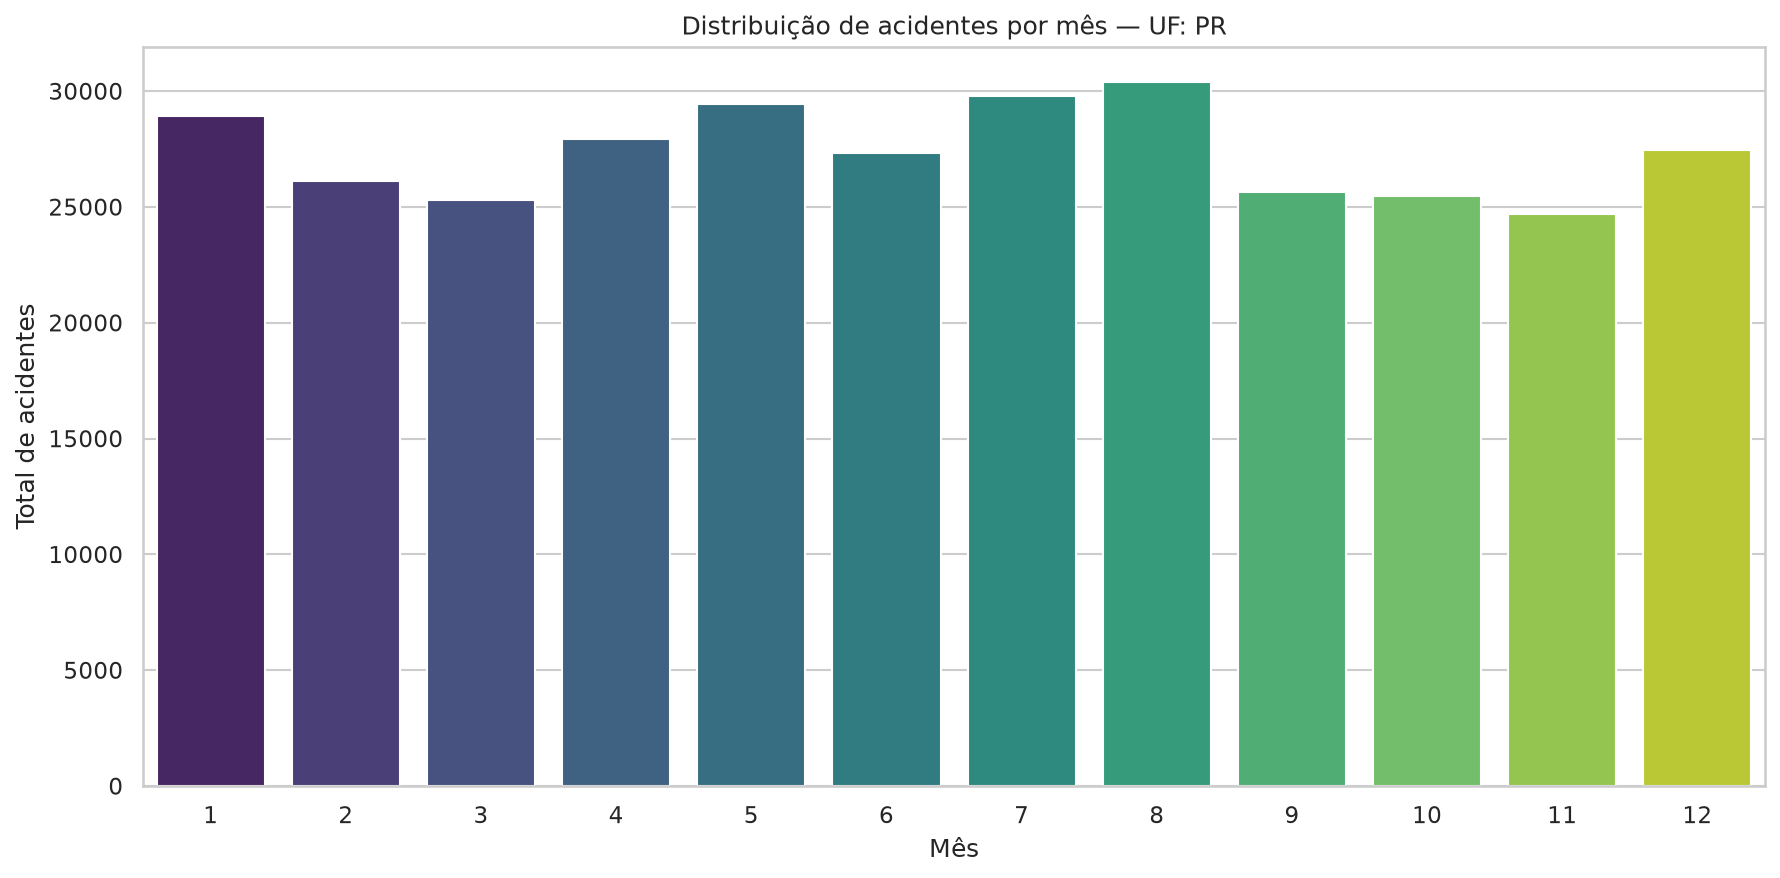
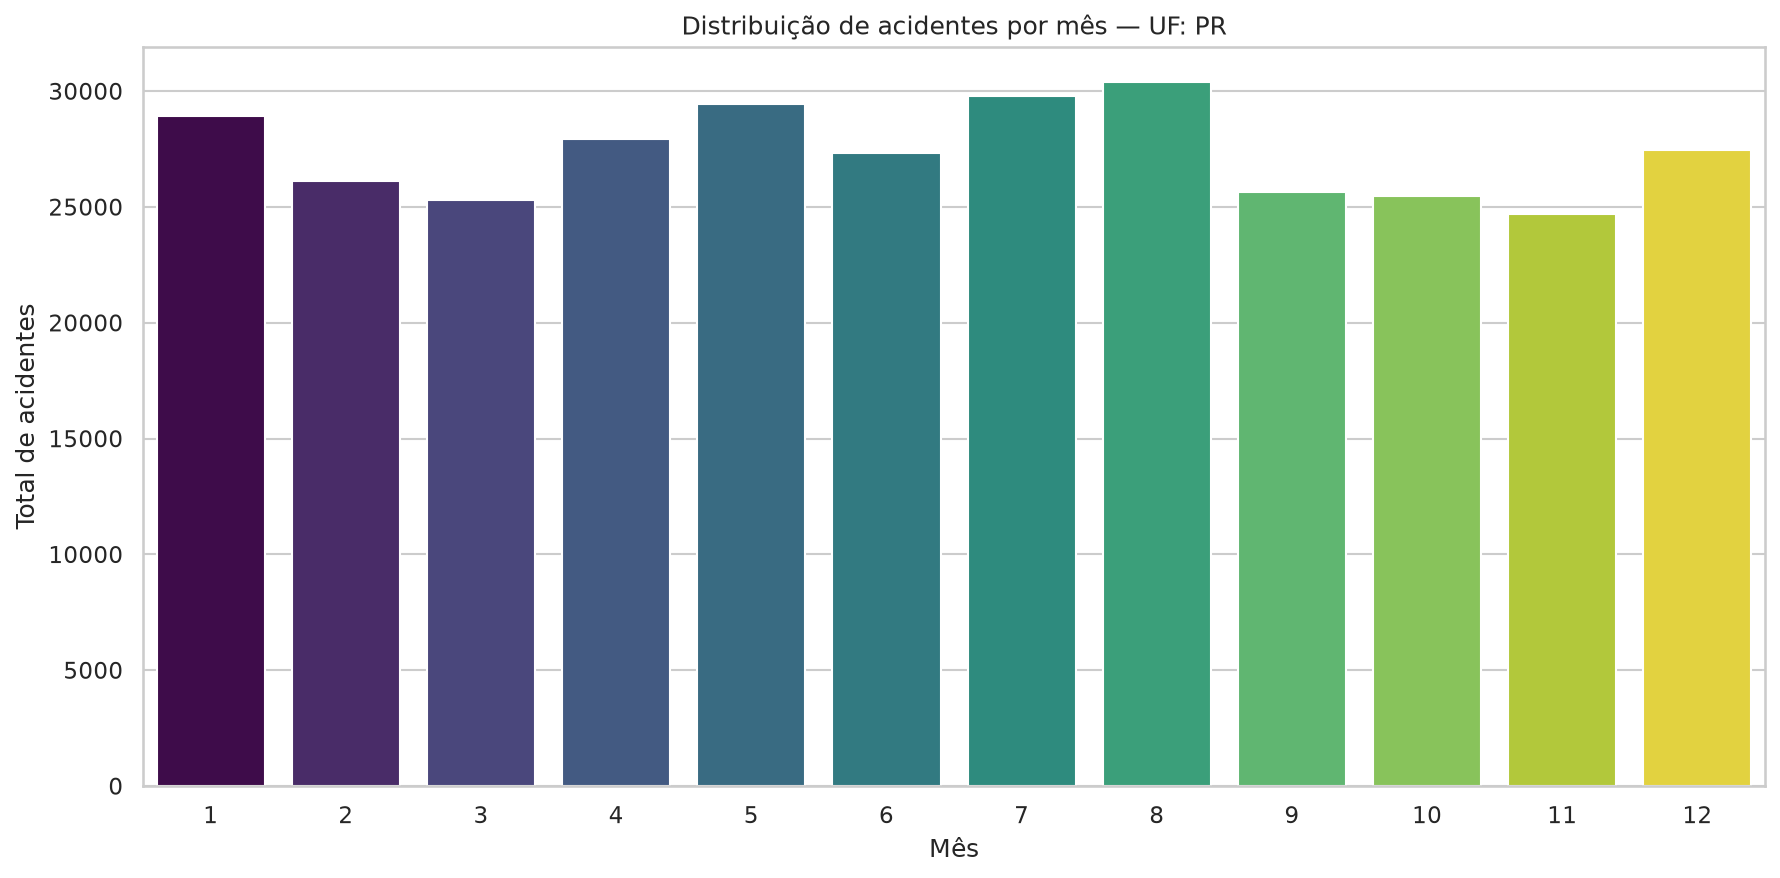
fix: compatibilidade com seaborn 0.13+ e ordem do salvar_modelo

Changed region(s): [[0.8343, 0.1538, 0.9888, 0.8918], [0.0618, 0.123, 0.1545, 0.8918]]

diff --git a/04_visualizacao.py b/04_visualizacao.py
@@ -69,7 +69,7 @@ def grafico_por_mes(df):
     resumo = df.groupby("mes").agg(total=("gravidade", "count")).reset_index()
 
     plt.figure(figsize=(12, 6))
-    sns.barplot(data=resumo, x="mes", y="total", palette="viridis")
+    sns.barplot(data=resumo, x="mes", y="total", palette="viridis", hue="mes", legend=False)
     plt.title(f"Distribuição de acidentes por mês — UF: {UF_FOCO}")
     plt.xlabel("Mês")
     plt.ylabel("Total de acidentes")
@@ -85,7 +85,7 @@ def grafico_por_dia_semana(df):
     resumo = resumo.sort_values("dia_semana")
 
     plt.figure(figsize=(12, 6))
-    sns.barplot(data=resumo, x="dia_semana", y="total", palette="rocket")
+    sns.barplot(data=resumo, x="dia_semana", y="total", palette="rocket", hue="dia_semana", legend=False)
     plt.title(f"Acidentes por dia da semana — UF: {UF_FOCO}")
     plt.xlabel("Dia da semana")
     plt.ylabel("Total de acidentes")
@@ -125,7 +125,8 @@ def grafico_condicao_meteorologica(df):
     ).reset_index().sort_values("total", ascending=False)
 
     plt.figure(figsize=(12, 6))
-    sns.barplot(data=resumo, x="total", y="condicao_metereologica", palette="coolwarm")
+    sns.barplot(data=resumo, x="total", y="condicao_metereologica", palette="coolwarm",
+                hue="condicao_metereologica", legend=False)
     plt.title(f"Acidentes por condição meteorológica — UF: {UF_FOCO}")
     plt.xlabel("Total de acidentes")
     plt.ylabel("Condição meteorológica")
@@ -142,7 +143,7 @@ def grafico_tipo_pista(df):
 
     fig, ax1 = plt.subplots(figsize=(10, 6))
     sns.barplot(data=resumo, x="tipo_pista", y="total", ax=ax1,
-                palette="mako", alpha=0.7)
+                palette="mako", alpha=0.7, hue="tipo_pista", legend=False)
     ax1.set_ylabel("Total de acidentes")
 
     ax2 = ax1.twinx()
@@ -162,7 +163,8 @@ def grafico_top_causas(df):
     ).reset_index().sort_values("total", ascending=False).head(10)
 
     plt.figure(figsize=(12, 7))
-    sns.barplot(data=resumo, x="total", y="causa_acidente", palette="flare")
+    sns.barplot(data=resumo, x="total", y="causa_acidente", palette="flare",
+                hue="causa_acidente", legend=False)
     plt.title(f"Top 10 causas de acidentes — UF: {UF_FOCO}")
     plt.xlabel("Total de acidentes")
     plt.ylabel("")

diff --git a/06_machine_learning.py b/06_machine_learning.py
@@ -56,24 +56,13 @@ def preparar_dados(df):
     df = df.dropna()
     print(f"Removidas {antes - len(df)} linhas com valores nulos.")
 
-    # ============================================================
-    # Codificação à prova de balas:
-    # 1. Converte TUDO para string (mesmo que já seja numérico)
-    # 2. Aplica LabelEncoder em cada coluna
-    # 3. Reatribui como int para garantir compatibilidade com sklearn
-    # ============================================================
+    # Codificação: tudo vira string, aplica LabelEncoder, força int
     encoders = {}
     for col in FEATURES:
-        # Converte para string primeiro (resolve category, object, int, etc)
         serie_str = df[col].astype(str)
-
-        # Aplica o encoder
         le = LabelEncoder()
         df[col] = le.fit_transform(serie_str)
-
-        # Garante que ficou como inteiro (não como objeto)
         df[col] = df[col].astype(int)
-
         encoders[col] = le
         print(f"  {col}: codificada ({len(le.classes_)} valores únicos)")
 
@@ -105,7 +94,6 @@ def treinar_modelo(df):
     X = df[FEATURES].copy()
     y = df[TARGET].copy()
 
-    # Garantia extra: força tudo a float (sklearn adora float)
     X = X.astype(float)
     y = y.astype(int)
 
@@ -170,7 +158,8 @@ def plotar_importancia_features(modelo):
     }).sort_values("importancia", ascending=True)
 
     plt.figure(figsize=(10, 6))
-    sns.barplot(data=importancias, x="importancia", y="feature", palette="viridis")
+    sns.barplot(data=importancias, x="importancia", y="feature", palette="viridis",
+                hue="feature", legend=False)
     plt.title("Importância das Features - Random Forest")
     plt.xlabel("Importância")
     plt.ylabel("")
@@ -195,9 +184,11 @@ if __name__ == "__main__":
     df = carregar_dados()
     df_prep, encoders = preparar_dados(df)
     modelo, X_test, y_test, y_pred = treinar_modelo(df_prep)
+
+    # ORDEM CORRIGIDA: salvar primeiro, plotar depois
+    salvar_modelo(modelo, encoders)
     plotar_matriz_confusao(y_test, y_pred, encoders)
     plotar_importancia_features(modelo)
-    salvar_modelo(modelo, encoders)
 
     print("\n" + "="*60)
     print("MACHINE LEARNING CONCLUÍDO!")
